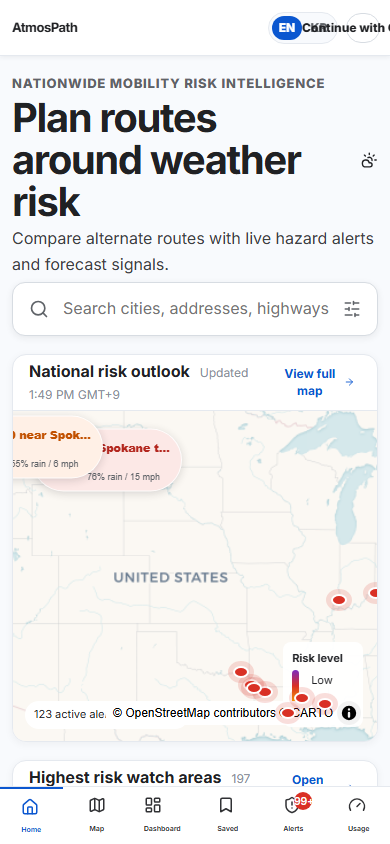
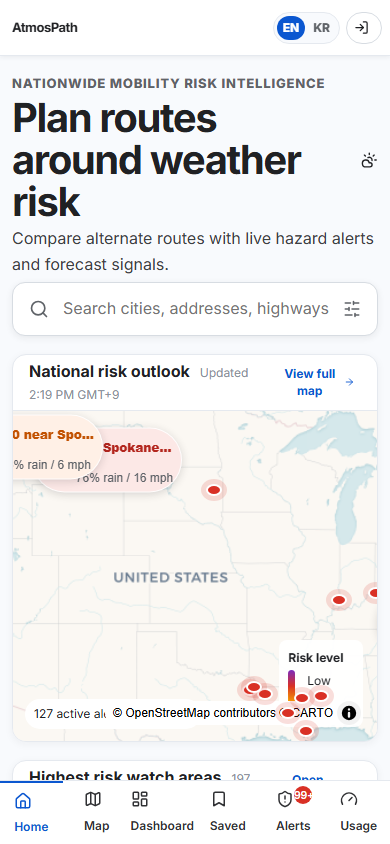
fix(ui): polish release demo readability

diff --git a/web/src/ProductPages.tsx b/web/src/ProductPages.tsx
@@ -683,7 +683,7 @@ export function PlaceDetailPage({ navigate, slug, weatherRaster }: { navigate: N
         <div><h1>{place.city}, {place.state}</h1><span>{risk ? `Updated ${formatTime(risk.generated_at)}` : loading ? "Loading live risk..." : "Live risk unavailable"}</span></div>
         <Metric label="Composite risk" value={risk ? `${risk.score}` : "--"} meta={risk?.level ?? "No live value"} tone={risk ? riskLevel(risk.score) : "low"} />
         <Metric label="Temperature" value={risk ? `${Math.round(risk.weather.temperature_f)}°F` : "--"} meta={risk?.weather.source ?? "Awaiting provider"} tone="low" />
-        <Metric label="Wind" value={risk ? `${Math.round(risk.weather.wind_speed_mph)} mph` : "--"} meta={risk ? `${Math.round(risk.weather.precipitation_probability)}% precipitation` : "No live value"} tone="moderate" />
+        <Metric label="Surface" value={risk ? surfaceConditionLabel(risk.weather) : "--"} meta={risk ? windLabel(risk.weather) : "No live value"} tone="moderate" />
         <div className="place-actions"><button className="button primary" onClick={() => navigate("/directions")}>Plan a route</button><button className="button secondary" onClick={() => savePlace(place, risk?.score)}><Bookmark size={15} /> Save place</button></div>
       </section>
       {!risk && <DataNotice status={loading ? "loading" : "degraded"} hasData={false} />}
@@ -697,7 +697,7 @@ export function PlaceDetailPage({ navigate, slug, weatherRaster }: { navigate: N
       </section>
       <section className="place-bottom">
         <div className="surface active-place-alerts"><SectionHeader title="Active alerts" action="View all alerts" onAction={() => navigate("/alerts")} />{risk?.alerts.map((alert) => <button key={alert.alert_id} onClick={() => navigate("/alerts")}><AlertTriangle size={16} /><span>{alert.event}</span><small>{alert.area}</small><ChevronRight size={15} /></button>)}{risk && !risk.alerts.length && <EmptyState title="No active alerts" detail="No NWS alerts intersect this place." />}</div>
-        <div className="surface live-context"><strong>Live conditions</strong>{risk ? <><span><CloudRain /> {Math.round(risk.weather.temperature_f)}°F</span><span><Droplets /> {Math.round(risk.weather.precipitation_probability)}% rain</span><span><Wind /> {Math.round(risk.weather.wind_speed_mph)} mph</span></> : <span>Unavailable</span>}</div>
+        <div className="surface live-context"><strong>Live conditions</strong>{risk ? <><span><CloudRain /> {Math.round(risk.weather.temperature_f)}°F</span><span><Droplets /> {surfaceConditionLabel(risk.weather)}</span><span><Wind /> {windLabel(risk.weather)}</span></> : <span>Unavailable</span>}</div>
       </section>
     </main>
   );
@@ -1009,26 +1009,35 @@ function weatherSummary(point: WeatherRisk) {
 }
 
 function conditionLabel(point: WeatherRisk) {
-  if (point.precipitation_probability >= 80) return "Rain likely";
-  if (point.precipitation_probability >= 55) return "Rain possible";
-  if (point.precipitation_probability >= 25) return "Some moisture signal";
-  return "No rain signal";
+  if (point.risk_score >= 80 && point.precipitation_probability >= 70) return "Storm/flood risk";
+  if (point.precipitation_probability >= 80) return "Wet pavement likely";
+  if (point.precipitation_probability >= 55) return "Wet pavement possible";
+  if (point.precipitation_probability >= 25) return "Moisture signal";
+  return "Dry road signal";
 }
 
 function roadImpactLabel(point: WeatherRisk) {
   if (point.risk_score >= 80) return "Avoid if possible";
-  if (point.precipitation_probability >= 80 || point.wind_speed_mph >= 25) return "High caution";
+  if (point.precipitation_probability >= 80 || point.wind_speed_mph >= 25) return "Reroute if flexible";
   if (point.precipitation_probability >= 55 || point.wind_speed_mph >= 18) return "Slow down";
   if (blackIceScore(point) >= 25) return "Ice watch";
   return "Normal caution";
 }
 
+function surfaceConditionLabel(point: WeatherRisk) {
+  if (blackIceScore(point) >= 25) return "Icy surface risk";
+  if (point.precipitation_probability >= 80) return "Wet surface likely";
+  if (point.precipitation_probability >= 55) return "Wet surface possible";
+  if (point.precipitation_probability >= 25) return "Patchy moisture";
+  return "Mostly dry";
+}
+
 function windLabel(point: WeatherRisk) {
   const wind = Math.round(point.wind_speed_mph);
-  if (wind >= 30) return `${wind} mph high wind`;
-  if (wind >= 20) return `${wind} mph gusty`;
-  if (wind >= 12) return `${wind} mph breeze`;
-  return `${wind} mph light`;
+  if (wind >= 30) return `${wind} mph crosswind risk`;
+  if (wind >= 20) return `${wind} mph gust caution`;
+  if (wind >= 12) return `${wind} mph steady wind`;
+  return `${wind} mph light wind`;
 }
 
 function formatDistance(miles: number) {

diff --git a/web/src/MapPage.tsx b/web/src/MapPage.tsx
@@ -23,7 +23,7 @@ import { RouteSegmentRiskStrip } from "./components/RouteSegmentRiskStrip";
 import { NetworkMap } from "./NetworkMap";
 import { deriveRouteDecision } from "./routeDecision";
 import { deriveRouteRiskSegments } from "./routeSegments";
-import type { DirectionsPlan, LocationRisk, NationalRiskOverview, NationalWeatherSnapshot, Place, RouteAlternative, VehicleType, WeatherRasterManifest } from "./types";
+import type { DirectionsPlan, LocationRisk, NationalRiskOverview, NationalWeatherSnapshot, Place, RouteAlternative, VehicleType, WeatherRasterManifest, WeatherRisk } from "./types";
 import { notify } from "./ui";
 
 type Field = "origin" | "destination";
@@ -309,7 +309,7 @@ function RiskInspector({ national, selected, plan, route, selectedAlternative, s
     <aside className="risk-dashboard">
       <div className="risk-dashboard-head"><div><span>{plan ? "Selected route" : "Live U.S. risk"}</span><h2>{plan ? selectedAlternativeLabel(selectedAlternative) : selected ? selected.place.city : "National outlook"}</h2></div><ShieldAlert size={20} /></div>
       <div className={`risk-score ${riskClass(plan ? riskClassFromScore(plan.risk_score) : selected?.level ?? national?.level)}`}><strong>{plan?.risk_score ?? selected?.score ?? national?.score ?? "–"}</strong><div><span>{plan ? "Route risk" : selected?.level ?? national?.level ?? "Loading"}</span><small>{plan ? `${plan.weather.filter((sample) => sample.data_status !== "UNAVAILABLE").length}/${plan.weather.length} route checkpoints live` : selected?.summary ?? `${national?.active_alerts ?? 0} active NWS alerts`}</small></div></div>
-      {plan && <div className="inspector-route"><strong>Risk by route checkpoint</strong><p>Live provider checkpoints used by model {route?.model_version ?? plan.model_version ?? "route-risk"}.</p>{sampledWeather(plan).map((sample) => <div key={sample.id}><i className={sample.data_status === "UNAVAILABLE" ? "high" : riskClassFromScore(sample.risk_score)} /><span><strong>{sample.city}</strong><small>{sample.data_status === "UNAVAILABLE" ? "Weather provider unavailable" : `${Math.round(sample.precipitation_probability)}% precipitation / ${Math.round(sample.wind_speed_mph)} mph wind`}</small></span><em>{sample.data_status === "UNAVAILABLE" ? "N/A" : sample.risk_score}</em></div>)}</div>}
+      {plan && <div className="inspector-route"><strong>Risk by route checkpoint</strong><p>Live provider checkpoints used by model {route?.model_version ?? plan.model_version ?? "route-risk"}.</p>{sampledWeather(plan).map((sample) => <div key={sample.id}><i className={sample.data_status === "UNAVAILABLE" ? "high" : riskClassFromScore(sample.risk_score)} /><span><strong>{sample.city}</strong><small>{sample.data_status === "UNAVAILABLE" ? "Weather provider unavailable" : checkpointCondition(sample)}</small></span><em>{sample.data_status === "UNAVAILABLE" ? "N/A" : sample.risk_score}</em></div>)}</div>}
       {!plan && <div className="national-stats"><div><strong>{national?.active_alerts ?? "–"}</strong><span>Active alerts</span></div><div><strong>{national?.severe_alerts ?? "–"}</strong><span>Severe</span></div><div><strong>{national?.alerts_with_geometry ?? "–"}</strong><span>Mapped</span></div></div>}
       {selected && <div className="factor-grid"><RiskFactor label="Flood" value={selected.factors.flood} icon={<CloudRain size={14} />} /><RiskFactor label="Rain" value={selected.factors.precipitation} icon={<CloudRain size={14} />} /><RiskFactor label="Wind" value={selected.factors.wind} icon={<Navigation size={14} />} /><RiskFactor label="Heat" value={selected.factors.heat} icon={<Flame size={14} />} /></div>}
       <div className="inspector-actions"><button className={showWeather ? "active" : ""} onClick={() => setShowWeather(!showWeather)}>Weather layer</button><button onClick={() => navigate("/alerts")}>View alerts</button></div>
@@ -340,6 +340,14 @@ function riskClassFromScore(score: number) {
   if (score >= 55) return "high";
   if (score >= 30) return "moderate";
   return "low";
+}
+
+function checkpointCondition(sample: WeatherRisk) {
+  const precipitation = Math.round(sample.precipitation_probability);
+  const wind = Math.round(sample.wind_speed_mph);
+  const surface = precipitation >= 80 ? "Wet surface likely" : precipitation >= 55 ? "Wet surface possible" : precipitation >= 25 ? "Patchy moisture" : "Mostly dry";
+  const windNote = wind >= 30 ? "crosswind risk" : wind >= 20 ? "gust caution" : "steady wind";
+  return `${surface} / ${wind} mph ${windNote}`;
 }
 
 function selectedAlternativeLabel(alternative: Alternative) {

diff --git a/web/src/styles.css b/web/src/styles.css
@@ -237,3 +237,92 @@ button { color: inherit; }
   .place-heading{display:grid;grid-template-columns:repeat(2,1fr)}.place-heading>div{min-height:60px}.place-heading>div:first-child,.place-actions{grid-column:1/-1}.place-bottom,.context-row{grid-template-columns:1fr}.why-risk{display:none}.seven-day .forecast-grid{grid-template-columns:repeat(7,minmax(54px,1fr));overflow-x:auto}.live-context,.long-context{flex-wrap:wrap}
   .map-page,.map-page .network-map{inset:56px 0 58px}.map-page .directions-panel{top:auto;bottom:66px;max-height:48vh}.map-page .risk-dashboard{display:none}.map-page .map-actions{top:66px}
 }
+
+/* Release-demo readability guardrail: no visible production text below 12px. */
+.product-app .section-header span,
+.product-app .section-header button,
+.product-app .inline-empty small,
+.product-app .live-risk-point,
+.product-app .live-risk-point b,
+.product-app .live-risk-point small,
+.product-app .risk-legend,
+.product-app .map-status,
+.product-app .alert-story small,
+.product-app .alert-story p,
+.product-app .alert-story em,
+.product-app .alert-story>b,
+.product-app .recent-grid small,
+.product-app .recent-grid i,
+.product-app .risk-matrix span small,
+.product-app .risk-matrix i,
+.product-app .change-feed span small,
+.product-app .change-feed b,
+.product-app .change-feed em,
+.product-app .departure-options small,
+.product-app .forecast-grid>button>strong,
+.product-app .forecast-grid>button>small,
+.product-app .alert-summary>button,
+.product-app .collections-panel em,
+.product-app .collection-insight span,
+.product-app .saved-meta,
+.product-app .route-live-risk span,
+.product-app .route-live-risk small,
+.product-app .saved-editor label,
+.product-app .route-history span,
+.product-app .place-heading span,
+.product-app .place-metric small,
+.product-app .layer-box strong,
+.product-app .layer-box span,
+.product-app .risk-timeline strong,
+.product-app .risk-timeline>span,
+.product-app .risk-reason span small,
+.product-app .risk-reason em,
+.product-app .why-risk>p,
+.product-app .active-place-alerts small,
+.product-app .live-context span,
+.product-app .long-context span,
+.product-app .route-submit-row span,
+.product-app .alternative-meta b,
+.product-app .alternative-meta small,
+.product-app .alternative-note,
+.product-app .hazard-icon-row,
+.product-app .decision-metrics span,
+.product-app .alternative-tradeoff b,
+.product-app .alternative-tradeoff i,
+.product-app .alternative-tradeoff small,
+.product-app .inspector-route span small,
+.product-app .inspector-actions button,
+.product-app .segment-strip-head small,
+.product-app .segment-chip-row small,
+.product-app .segment-chip-row em {
+  font-size: 12px;
+}
+
+.product-app .live-risk-point b{width:30px;height:30px}
+.product-app .route-submit-row button,
+.product-app .text-action,
+.product-app .section-label button,
+.product-app .route-decision-summary>button{font-size:13px}
+.product-app .matrix-head,
+.product-app .risk-section-title,
+.product-app .segment-strip-head strong,
+.product-app .segment-chip-row strong,
+.product-app .alternative-top strong,
+.product-app .inspector-route>strong,
+.product-app .alert-list strong,
+.product-app .alert-list span,
+.product-app .risk-dashboard footer{font-size:12px}
+.product-app .risk-matrix>button,
+.product-app .matrix-head{grid-template-columns:minmax(190px,1.65fr) 56px minmax(125px,1.05fr) minmax(135px,1.1fr) minmax(140px,1.15fr)}
+.product-app .risk-matrix>button>em{min-width:0;white-space:normal;line-height:1.25}
+
+@media(max-width:760px){
+  .product-app .primary-nav button span{font-size:12px}
+  .product-app .primary-nav{height:64px}
+  .product-app .map-page,.product-app .map-page .network-map{inset:56px 0 64px}
+  .product-app .map-page .directions-panel{bottom:72px}
+  .product-app .header-tools{gap:6px;padding-right:8px}
+  .product-app .google-auth-button{width:36px;min-width:36px;height:32px;font-size:0!important}
+  .product-app .google-auth-button span{display:none}
+  .product-app .language-toggle button{min-width:28px;font-size:12px}
+}
